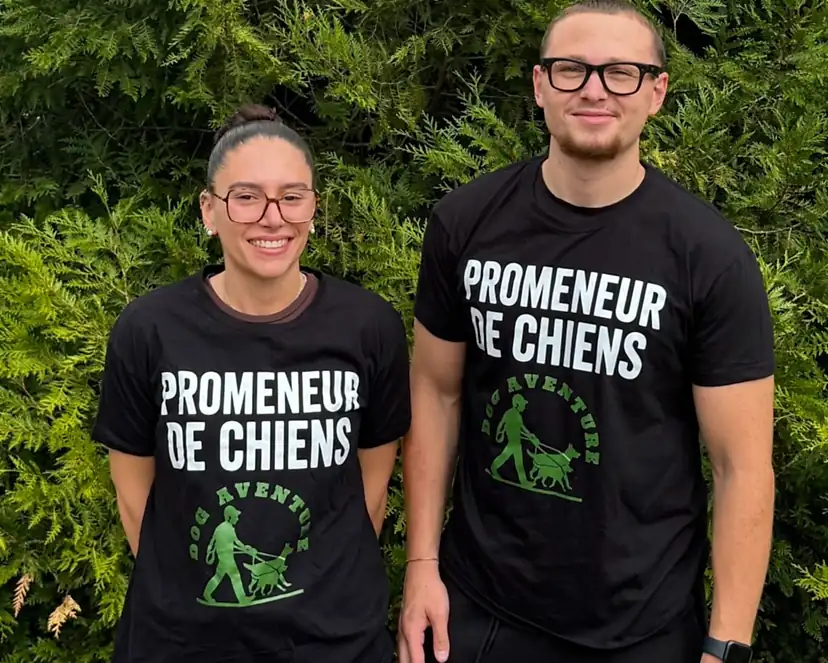
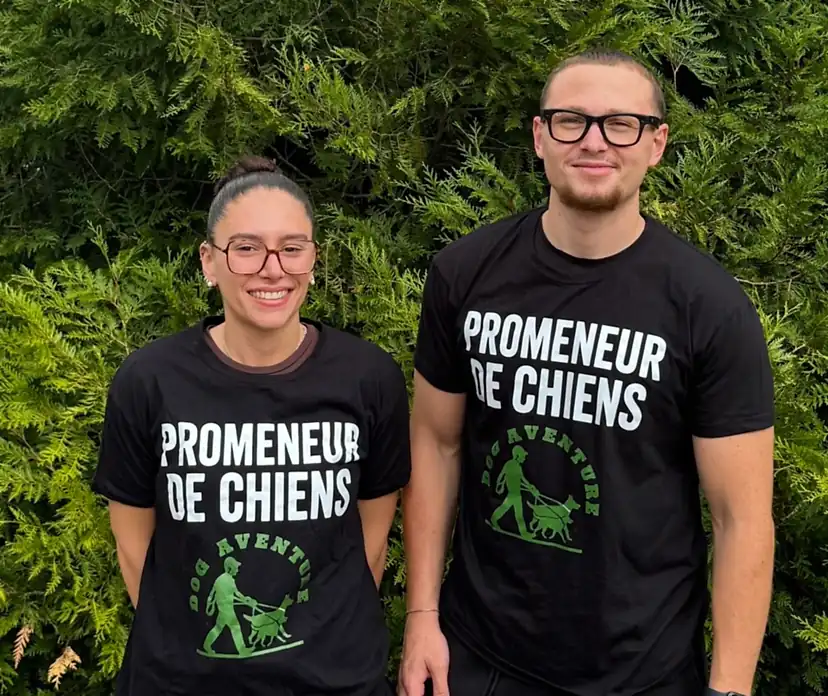
Recadre la photo du binôme : le haut du crâne touchait le bord
L'ancien cadrage démarrait à y=250 alors que le crâne de la personne de
droite culmine à y=245 dans l'original — la tête rasait le bord haut.
Le cadre remonte à 160 (85 px de ciel) et s'arrête à 1380 en bas : le
logo du t-shirt de gauche finit à 1310, tout ce qui suivait n'était que
du noir. Le ratio passe de 5/4 à 1,19, trust.tsx suit.

diff --git a/scripts/prepare-photos.js b/scripts/prepare-photos.js
@@ -49,13 +49,23 @@ const PHOTOS = [
        QUI est ce « on » employé partout dans les textes depuis le même jour —
        sans elle, le pluriel n'est qu'une tournure.
 
-       Cadrage 5/4 serré : au-dessus de y=250 il n'y a que du thuya, et il faut
-       descendre jusqu'à 1412 pour que le logo imprimé sur le t-shirt de gauche
-       tienne entier dans le cadre — c'est lui qui fait le lien avec la marque,
-       le rogner serait perdre l'essentiel du bas de l'image. */
+       Cadrage recalé le 2026-08-19 : le crâne de la personne de droite culmine
+       à y=245 dans l'original, l'ancien `top: 250` le rasait donc exactement —
+       une tête qui touche le bord de cadre, c'est le défaut le plus visible
+       d'un portrait. Le haut remonte à 160, ce qui lui laisse 85 px de ciel
+       (7 % de la hauteur) sans faire entrer autre chose que du thuya.
+
+       Le bas, lui, ne descend plus jusqu'à 1412 : le dernier trait vert du
+       logo imprimé sur le t-shirt de gauche s'arrête à y=1310 et tout ce qui
+       suit n'est que du noir. On s'arrête à 1380 — 70 px de marge sous le
+       logo, qui reste entier (c'est lui qui fait le lien avec la marque).
+
+       Conséquence : le cadre n'est plus en 5/4 mais en 1,19 (1452 × 1220), un
+       cheveu plus haut. `components/sections/trust.tsx` porte les mêmes
+       dimensions en dur — les deux se relisent ensemble. */
     name: "equipe",
     src: "equipe.jpg",
-    crop: { left: 0, top: 250, width: 1452, height: 1162 },
+    crop: { left: 0, top: 160, width: 1452, height: 1220 },
     reference: [1452, 62],
     /* Affichée au plus large dans un conteneur de 768 px CSS : le slot 1200
        (servi aux écrans 2×) est plafonné à 1100 px, au-delà on paie du poids

diff --git a/components/sections/trust.tsx b/components/sections/trust.tsx
@@ -66,7 +66,7 @@ export function TrustSection() {
                 src={team}
                 alt={teamAlt ?? ""}
                 width={1452}
-                height={1162}
+                height={1220}
                 sizes="(min-width: 768px) 672px, calc(100vw - 2rem)"
                 className="h-auto w-full"
               />
